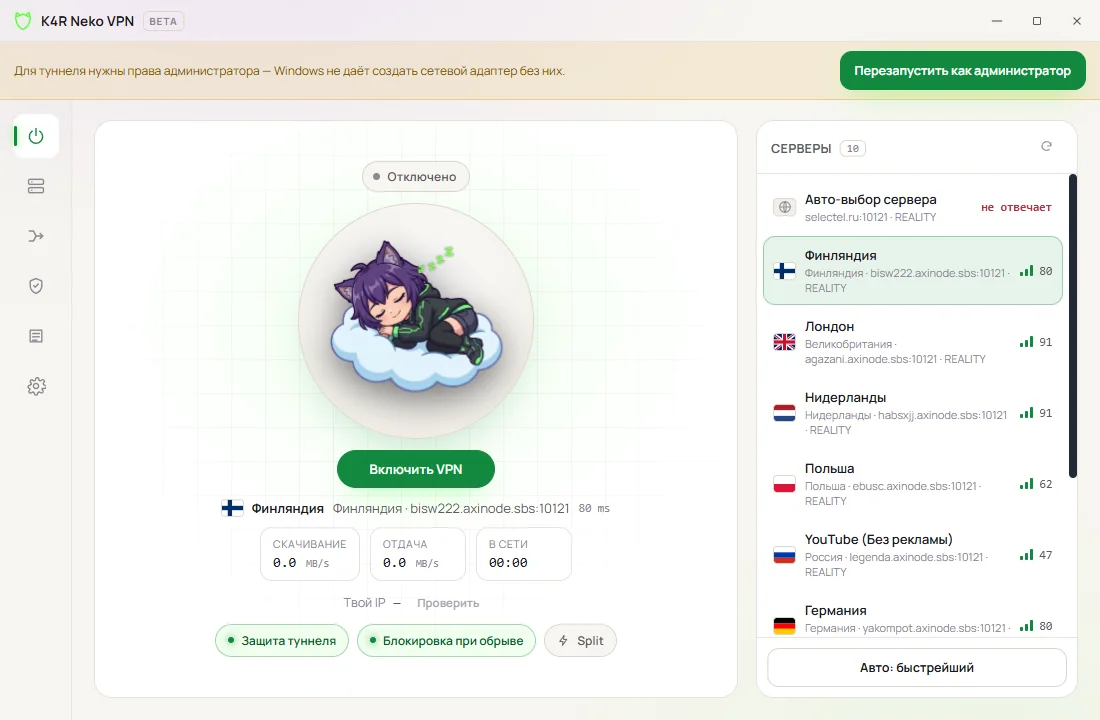
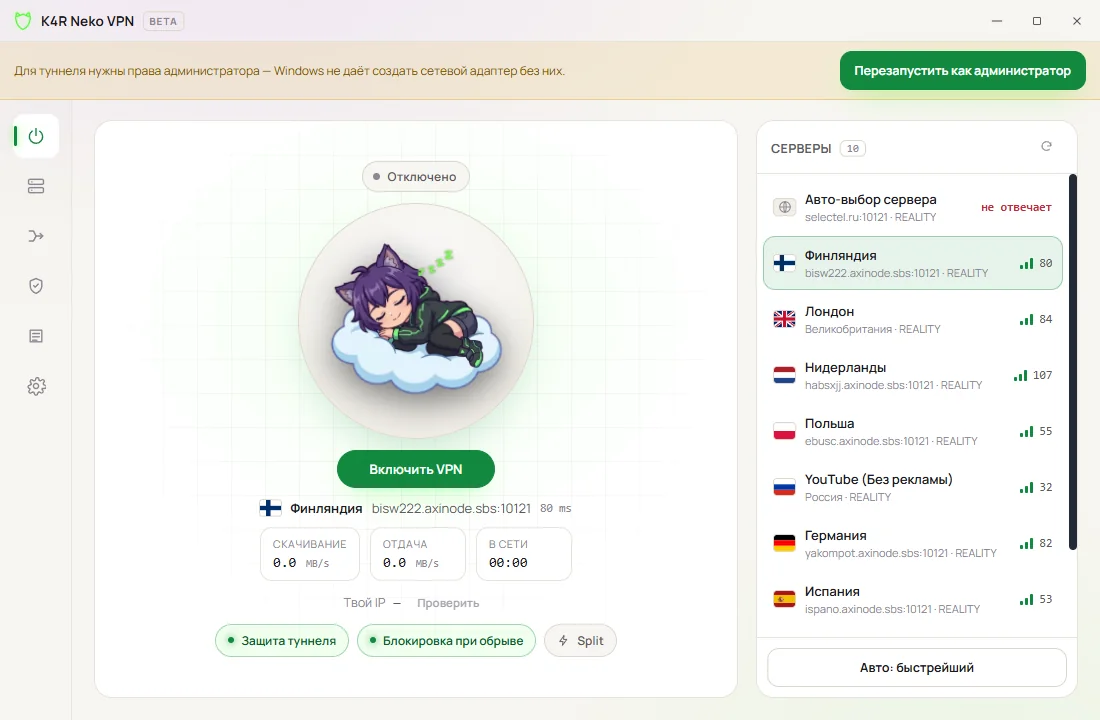
ui: keep the server row at two lines and refresh the screenshots
The country line repeated the title when the provider sends no city; it now shows
the country only when it adds something, otherwise the server address.

diff --git a/app/src/App.tsx b/app/src/App.tsx
@@ -150,12 +150,15 @@ export default function App() {
     return profiles.map((p) => {
       const cc = ccFromName(p.name);
       const country = nameOf(cc ?? "");
+      const title = stripCc(p.name) || p.host;
+      // вторая строка: страна, если она не повторяет название; иначе адрес сервера
+      const sub = country && country.toLowerCase() !== title.toLowerCase() ? country : `${p.host}:${p.port}`;
       return {
       id: p.id,
       cc: cc ?? "",
       flag: cc ?? "",
-      city: stripCc(p.name) || p.host,
-      country: country ? `${country} · ${p.host}:${p.port}` : `${p.host}:${p.port}`,
+      city: title,
+      country: sub,
       tag: (p.security === "none" ? p.network : p.security).toUpperCase(),
       lat: lat[p.id] ?? 0,
       quality: "good" as const,
